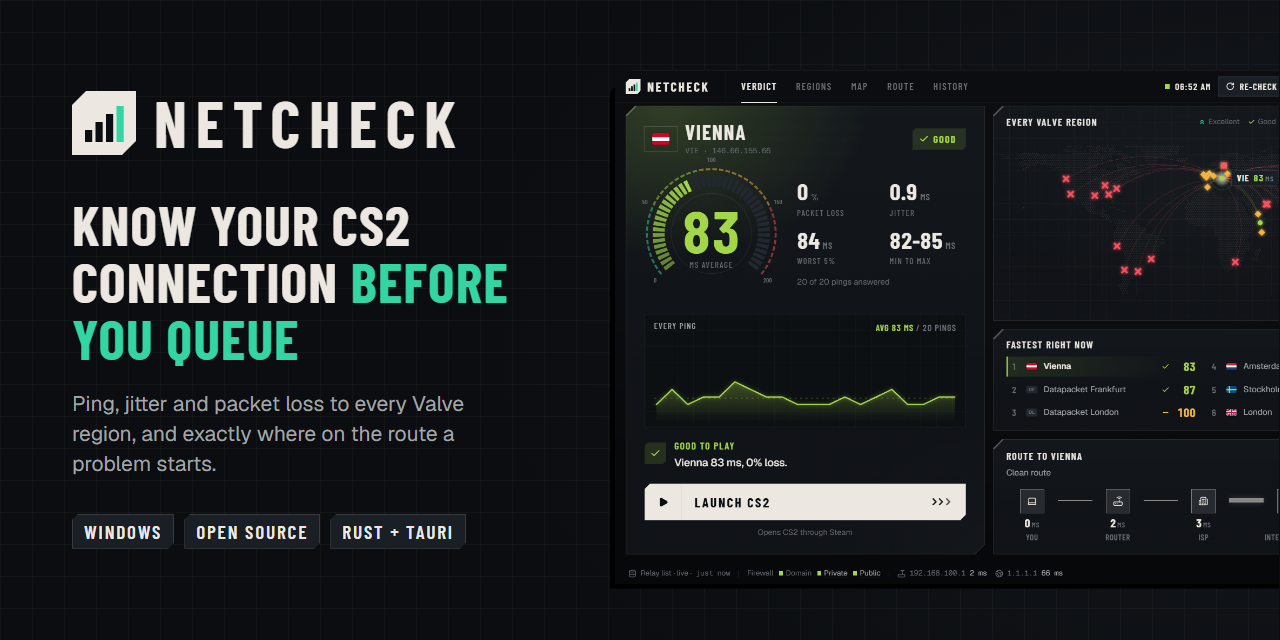
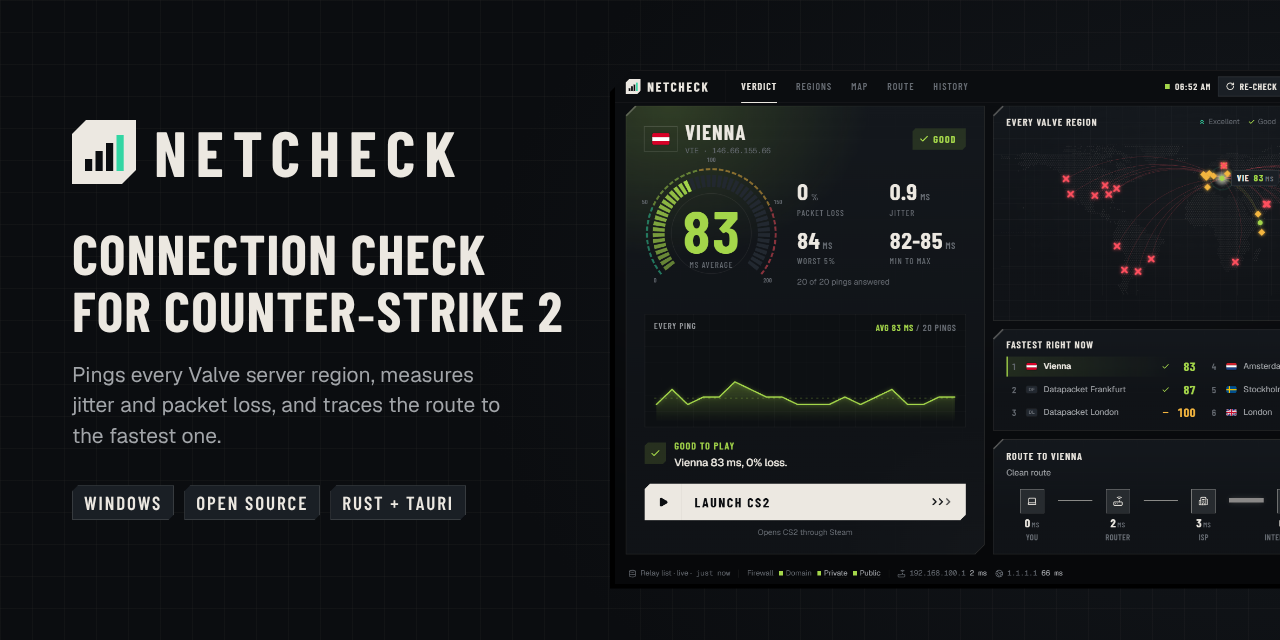
Replace the old tagline on the social preview

Changed region(s): [[0.0312, 0.125, 0.4375, 0.8438]]

diff --git a/scripts/social-preview.html b/scripts/social-preview.html
@@ -15,12 +15,11 @@
       linear-gradient(90deg, rgb(236 232 225 / 0.03) 1px, transparent 1px) 0 0 / 32px 32px,
       radial-gradient(90% 120% at 100% 50%, #14181d, #0b0d10 70%);
   }
-  .copy { position: absolute; left: 72px; top: 0; bottom: 0; width: 470px; display: flex; flex-direction: column; justify-content: center; }
+  .copy { position: absolute; left: 72px; top: 0; bottom: 0; width: 520px; display: flex; flex-direction: column; justify-content: center; }
   .brand { display: flex; align-items: center; gap: 18px; }
   .brand svg { width: 64px; height: 64px; }
   .word { font-family: "Barlow Condensed"; font-weight: 700; font-size: 64px; letter-spacing: 0.14em; line-height: 1; }
   h1 { margin-top: 40px; font-family: "Barlow Condensed"; font-weight: 700; font-size: 56px; line-height: 1.02; letter-spacing: 0.02em; text-transform: uppercase; }
-  h1 span { color: #33d6a3; }
   p { margin-top: 22px; font-size: 21px; line-height: 1.45; color: #a2a5a9; max-width: 430px; }
   .tags { margin-top: 34px; display: flex; gap: 10px; }
   .tag { font-family: "Barlow Condensed"; font-weight: 600; font-size: 19px; letter-spacing: 0.1em; text-transform: uppercase; padding: 6px 12px; background: #1a1f25; box-shadow: inset 0 0 0 1px rgb(236 232 225 / 0.14);
@@ -37,8 +36,8 @@
       <svg viewBox="0 0 32 32"><path d="M7 0H32V25L25 32H0V7Z" fill="#ece8e1"/><rect x="6.5" y="19.5" width="3.6" height="6" fill="#0b0d10"/><rect x="11.75" y="15.5" width="3.6" height="10" fill="#0b0d10"/><rect x="17" y="11.5" width="3.6" height="14" fill="#0b0d10"/><rect x="22.25" y="7.5" width="3.6" height="18" fill="#33d6a3"/></svg>
       <div class="word">NETCHECK</div>
     </div>
-    <h1>Know your CS2 connection <span>before you queue</span></h1>
-    <p>Ping, jitter and packet loss to every Valve region, and exactly where on the route a problem starts.</p>
+    <h1>Connection check<br>for Counter&#8209;Strike&nbsp;2</h1>
+    <p>Pings every Valve server region, measures jitter and packet loss, and traces the route to the fastest one.</p>
     <div class="tags"><div class="tag">Windows</div><div class="tag">Open source</div><div class="tag">Rust + Tauri</div></div>
   </div>
   <div class="shot"><img src="../docs/screenshots/real-windows.png"></div>
